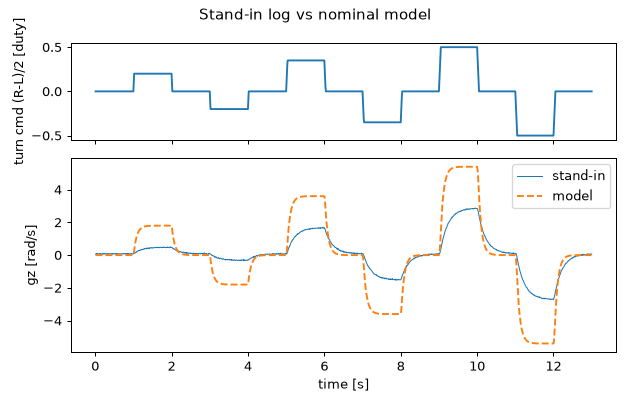
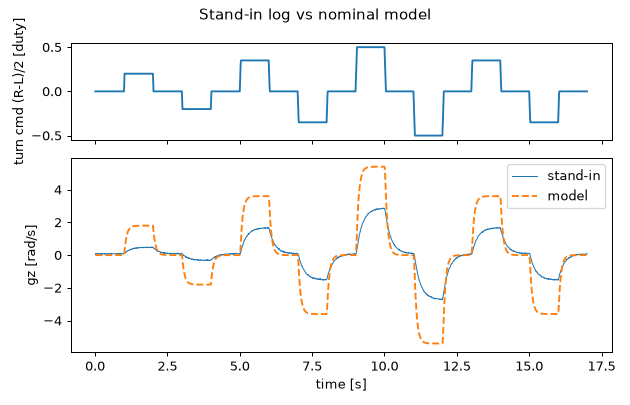
S077: 教材の図を S041 の後のコードで作り直した（01〜04・06。17 s、05 は同じ）。fig/README.md の説明を更新

diff --git a/log/work/2026-11-19-s077-figures.md b/log/work/2026-11-19-s077-figures.md
@@ -1,0 +1,50 @@
+# S077 `figures`
+
+| | |
+| --- | --- |
+| 日付 | 2026-11-19 |
+| ブランチ | `feature/s077-figures` |
+| worktree | `.git-worktree/s077-figures` |
+| セッション記録 | 統括がコピーする（この担当はしない） |
+
+## 依頼
+
+教材の図 `doc/textbook/fig/` を、S041 の後のコード（実験 17 s、寸法 r = 30 mm・b = 0.1 m、SPREAD）で作り直す。章の本文は触らない。図の名前は変えない。
+
+## やったこと
+
+- `fig/README.md` のコマンドをそのまま走らせた（`figures('doc/textbook/fig')` で 01〜05、`sim-log --plant mujoco` と `plot log` で 06）。06 用の CSV はスクラッチ領域に書いた（リポジトリには入れていない）。
+- 01・02・03・06 の PNG が変わった（x 軸が 13 s → 17 s、末尾に +0.35・−0.35 の段が増えた）。04 は PNG のバイトは変わったが、見た目は前と同じ（旧版と見比べた）。05 は前と同じ（git の差分に出ない）。
+- 6 枚とも Read で開いて確かめた。文字化け無し、2 本の線は色と実線・破線で見分けられる。`strings <png> | grep -ci home` は 6 枚とも 0。
+- `fig/README.md`: 01 の説明に 17 s と末尾の 2 段を足し、「作り直した」の記述を S077・S041 の後に更新。コマンドは今も動く（上のとおり走らせた）。
+
+## 図ごとの確認
+
+| 図 | 前 → 後 | README の説明と合うか |
+| --- | --- | --- |
+| 01 | 13 s → 17 s。gz のピークは公称で約 1.8・3.6・5.4 rad/s（変わらず）。末尾に ±0.35 の 2 段 | 合う（説明を直した） |
+| 02 | 同上。代役はピーク約 0.5・1.6・2.8、公称モデルは 1.8・3.6・5.4。0.2 では代役はわずかしか回らない | 合う |
+| 03 | 線はほぼ重なる（17 s 全体で） | 合う |
+| 04 | 見た目は同じ。前は 3.2 付近まで行き過ぎて約 2.93 に落ち着き、後は 3.0 に揃う | 合う |
+| 05 | 同じ（平均 0.0798、標準偏差 0.0144） | 合う |
+| 06 | 13 s → 17 s。ピーク約 3.6・6.3・8.9 rad/s で公称より大きい | 合う |
+
+## 章の説明文と合わなくなった所
+
+なし（図のすぐ下の説明文 6 か所を読んで確かめた）。次の 2 点だけ、章の担当が見ておくと良い。
+
+| 章 | 図 | どう変わったか |
+| --- | --- | --- |
+| 04・01・08 | 01・02・06 | 横軸が 0〜17 s になり、末尾に +0.35・−0.35 の段が増えた。本文は段の数や秒数を書いていないので食い違いは無いが、「同定の実験（05 章）の指令列」を説明する文が 05 章にあれば 17 s・8 段の記述に合わせる |
+| 02 | 05 | 変わらない。本文の「0.08 rad/s のまわり、標準偏差 0.014」は図と合う |
+
+## 検証
+
+- 漏洩の検査（`git diff --cached`）: コミット前に実施（下に結果）。
+- `pytest`: コードを触っていないので走らせていない。
+- 図に出る物理の値（ゲイン・時定数）の正しさは確かめていない。見た目と README の記述の整合だけ。
+
+## 確かめていないこと・残したこと
+
+- 04 の PNG のピクセル単位の差は調べていない（目で同じに見えただけ）。
+- `--plant hard` の図は教材に無いので作っていない。

diff --git a/doc/textbook/fig/README.md b/doc/textbook/fig/README.md
@@ -5,7 +5,7 @@
 
 | 図 | 何が見えるか | 貼る場所の案 |
 | --- | --- | --- |
-| `01-sim-nominal.png` | 公称の sim で同定の実験をしたログ。静止 1 s のあと、旋回の指令 ±0.2・±0.35・±0.5 を各 1 s（間に 0 を 1 s）。上が指令の旋回成分、下が gz。指令の段ごとに gz が一次遅れで追う。 | 04 章（sim）の同定の実験の説明 |
+| `01-sim-nominal.png` | 公称の sim で同定の実験をしたログ。全体で 17 s。静止 1 s のあと、旋回の指令 ±0.2・±0.35・±0.5 を各 1 s（間に 0 を 1 s）、最後に +0.35・−0.35 をもう一度（前後で K が変わったかを `drift` で見るための段。末尾の 2 段）。上が指令の旋回成分、下が gz。指令の段ごとに gz が一次遅れで追う。 | 04 章（sim）の同定の実験の説明 |
 | `02-stand-in-vs-nominal.png` | 代役のログに、公称パラメータのモデルを重ねた図。モデルは代役より大きく速く回り、小さい指令 (0.2) では代役はわずかしか回らない（不感帯）。 | 01 章（S2R と R2S）か 05 章（Real2Sim）の冒頭。「sim と実機の差」 |
 | `03-stand-in-vs-identified.png` | 同じ代役のログに、同定して直したパラメータのモデルを重ねた図。線がほぼ重なる。 | 05 章（Real2Sim）の同定の結果 |
 | `04-step-before-after.png` | 代役での閉ループのステップ応答 (0 → 3 rad/s)。前は公称で決めたゲイン、後は同定したパラメータで決め直したゲイン。前は行き過ぎて目標の少し下に落ち着き、後は目標に揃う。 | 06 章（Sim2Real）か 07 章（1 周）の結果 |
@@ -14,12 +14,12 @@
 
 ## 作り直す
 
-sim・同定・制御の中身が変わったら（S023 で S008 の後の main から作り直した）、下を実行して PNG をコミットし直す。
+sim・同定・制御の中身が変わったら（S077 で S041 の後の main から作り直した。実験は 17 s、寸法は r = 30 mm・b = 0.1 m）、下を実行して PNG をコミットし直す。
 `figures()` は公開された関数（`sim_log`・`identify`・`apply`・`tune`・`design`・`run`）を呼ぶだけなので、コードは直さなくてよい。
 
 ```bash
 uv sync --extra viz --extra mujoco
-uv run python -c "from physlearn.plot import figures; figures('doc/textbook/fig')"   # 01〜05
+uv run python -c "from physlearn.plot import figures; figures('doc/textbook/fig')"   # 01〜05（05 は前と同じ）
 uv run physlearn sim-log mujoco-id.csv --plant mujoco
 uv run python -m physlearn.plot log mujoco-id.csv --out doc/textbook/fig/06-mujoco.png
 rm mujoco-id.csv
